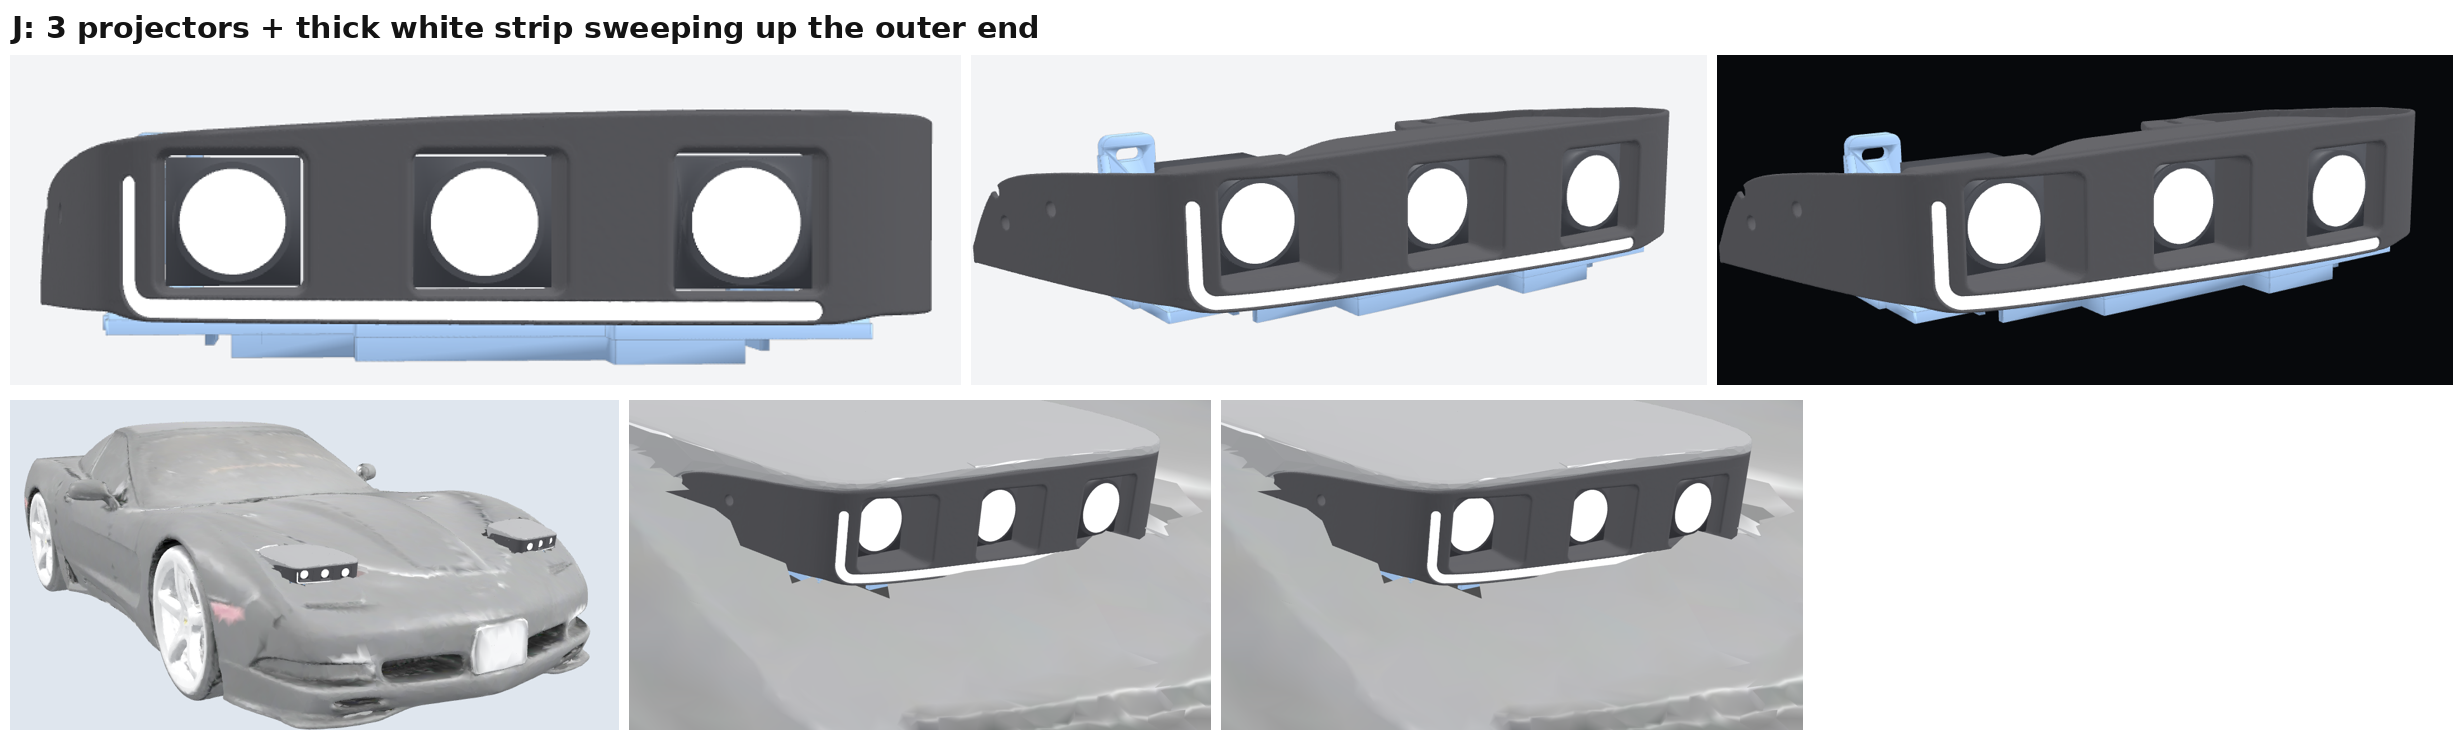
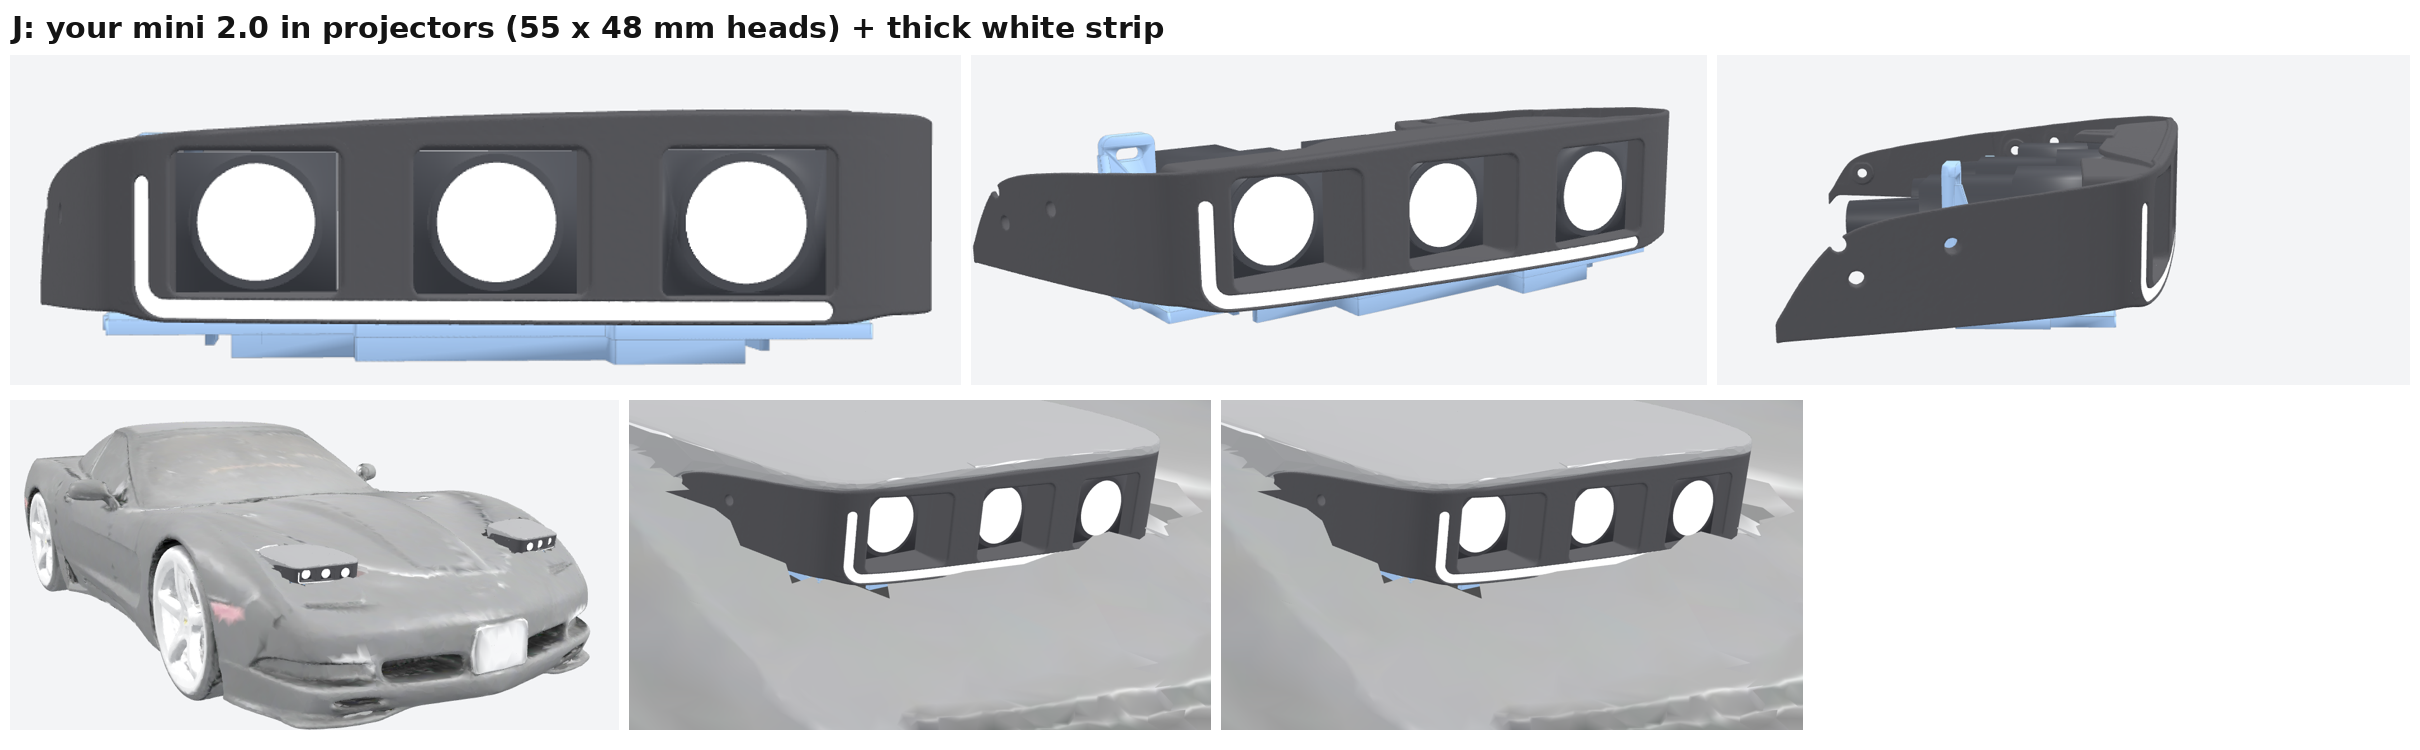
P3J/P3W sized to the owner's projectors (mini 2.0 in bi-LED, 55 x 48 mm heads)
From the listing's size drawing: head 55 wide x 48 tall x 50 deep, body 41 wide x 44 deep,
threaded stem 38 (131 mm overall). The heads sit at z 9.5 to 57.5, between the thick strip and
the rail (0.5 mm clearance, near-square tunnels); the fender-side head is 8 mm in from the
pod's place so its body clears the arm's mounting tab, and the middle one halfway for even
gaps. No overlap with the bezel or the bracket. Renders updated.

Claude-Session: https://claude.ai/code/session_01M5RjfuvJShbeiYoa7cgYgA

diff --git a/c5-shroud/bezel_styles.py b/c5-shroud/bezel_styles.py
@@ -61,8 +61,12 @@ BLADE = Spec(slot=4.2, inner=4.2, wall=1.0, skin=0.0, depth=3.8, insert=1.5, fro
 BLADE_FLUSH = 0.3    # the diffuser's face sits this far behind the bezel's
 WIRE_R = 1.3         # wire hole from the blade's channel out underneath
 LOW_Z = 3.6          # the lower lights' centre line
-PROJ_W, PROJ_H = 46.0, 44.0   # P3 looks: a 1.5 in projector's square housing, face on (to confirm with the real ones)
-PROJ_LIFT = 3.0      # P3: the projectors sit this much higher than the pods did, to make room for a thick strip
+PROJ_W, PROJ_H = 55.0, 48.0   # P3: the owner's mini 2.0 in bi-LED projector, head face on (eBay listing's size drawing)
+PROJ_CLEAR = 0.5     # round the head, in its tunnel (the head only just fits under the rail at the fender end)
+PROJ_X = (-84.5, -4.0, 76.5)  # head centres: the fender one 8 mm in from the pod's place, so its body clears the
+                              # arm's mounting tab; the middle one halfway, for even gaps
+PROJ_LIFT = 2.9      # P3: the heads sit this much higher than the pods did: z 9.5 to 57.5, between the thick strip
+                     # (its walls end at 8.95) and the rail (its underside is at 59.0 over the fender head)
 # P3's thick light strip: a silicone switchback (white DRL / amber signal) strip, about 6.5 mm wide
 # and 6 mm thick, pressed into the channel from the front, flush; it is its own diffuser
 THICK = Spec(slot=6.5, inner=6.5, wall=1.0, skin=0.0, depth=7.0, insert=6.0, front=True)
@@ -308,7 +312,7 @@ class Style:
             # three small projectors at the pods' places; one light strip under them that sweeps up
             # past the fender-side one: straight (J) or dipping under each and peaking between (W)
             pxs = [t[0] for t in fg["tunnels"]]
-            half = PROJ_W / 2 + 2.0
+            half = PROJ_W / 2 + 1.0
             if name == "P3J":
                 pts = rounded_l((ax(pxs[0] - half + 4.0), THICK_Z), (ax(pxs[-1] + half + 10.0), THICK_Z),
                                 (ax(pxs[-1] + half + 10.0), 46.0), 9.0)[::-1]
@@ -317,8 +321,8 @@ class Style:
                 zs = [THICK_Z + 6.0, THICK_Z]
                 for xa, xb in zip(pxs, pxs[1:]):         # flat under each window, peaking in the gaps
                     xm = (xa + xb) / 2
-                    xs += [xa + half + 5.0, xm - 2.5, xm, xm + 2.5, xb - half - 5.0]
-                    zs += [THICK_Z, 26.0, 28.0, 26.0, THICK_Z]
+                    xs += [xa + half + 3.5, xm - 2.0, xm, xm + 2.0, xb - half - 3.5]
+                    zs += [THICK_Z, 22.0, 24.0, 22.0, THICK_Z]
                 xs += [pxs[-1] + half + 4.0, pxs[-1] + half + 10.0, pxs[-1] + half + 10.0]
                 zs += [THICK_Z, THICK_Z + 8.0, 46.0]
                 pts = np.c_[[ax(x) for x in xs], zs]

diff --git a/c5-shroud/bezel_sdf.py b/c5-shroud/bezel_sdf.py
@@ -274,26 +274,28 @@ def feature_geometry(sw):
     """Windows, tongue and screw holes: the same geometry as bezel_cad.features, and the door."""
     zc = g.pod_zc(P)
     ww, wh = P.pod_face_w + 2 * P.window_clear_x, P.pod_face_h + 2 * P.window_clear_y
+    poses = [(px, py) for (px, py, _) in g.pod_poses(P)]
     if STYLE.startswith("P3"):          # three small projectors instead of the pods (bezel_styles.PROJ)
-        ww, wh = bs.PROJ_W + 4.0, bs.PROJ_H + 4.0
+        ww, wh = bs.PROJ_W + 2 * bs.PROJ_CLEAR, bs.PROJ_H + 2 * bs.PROJ_CLEAR
         zc = zc + bs.PROJ_LIFT
+        poses = [(x, py) for x, (_, py) in zip(bs.PROJ_X, poses)]
     floor_top = g.shell_levels(P)[2] - 0.15
     z_bot = floor_top - T_WALL + RL_MAX + 1.0      # the sill sits 1 mm above the rolled lip's top, so the
                                                    # lip under it is solid (not a thin upturned edge)
     if STYLE.startswith("P3"):          # the sill just under the projector, with the light strip below it
-        z_bot = zc - bs.PROJ_H / 2 - 2.0
+        z_bot = zc - bs.PROJ_H / 2 - bs.PROJ_CLEAR
     z_topw = zc + wh / 2
-    wins = [(px, py, (z_bot + z_topw) / 2, ww / 2, (z_topw - z_bot) / 2) for (px, py, _) in g.pod_poses(P)]
+    wins = [(px, py, (z_bot + z_topw) / 2, ww / 2, (z_topw - z_bot) / 2) for (px, py) in poses]
     # the tunnels: behind each pod's face they hug the pod's body (TUNNEL_CLEAR all round, small
     # corners); forward of it they curve out to the opening at the front, which is a little wider
     # than the window and taller where the rail leaves room above it
     tunnels = []
-    for (px, py, _) in g.pod_poses(P):
+    for (px, py) in poses:
         zb0, zb1 = P.pod_lift - TUNNEL_CLEAR, g.pod_top(P) + TUNNEL_CLEAR
         back = (P.pod_body_w / 2 + TUNNEL_CLEAR, (zb1 - zb0) / 2, (zb0 + zb1) / 2, 3.0)
         if STYLE.startswith("P3"):
-            zb0, zb1 = zc - bs.PROJ_H / 2 - TUNNEL_CLEAR, zc + bs.PROJ_H / 2 + TUNNEL_CLEAR
-            back = (bs.PROJ_W / 2 + TUNNEL_CLEAR, (zb1 - zb0) / 2, (zb0 + zb1) / 2, 3.0)
+            zb0, zb1 = zc - bs.PROJ_H / 2 - bs.PROJ_CLEAR, zc + bs.PROJ_H / 2 + bs.PROJ_CLEAR
+            back = (bs.PROJ_W / 2 + bs.PROJ_CLEAR, (zb1 - zb0) / 2, (zb0 + zb1) / 2, 1.0)   # near-square heads
         on = np.abs(sw.path[:, 0] - px) < ww / 2 + 4
         rail_under = float(np.min(sw.T[on & (sw.path[:, 1] > -60)])) - T_WALL
         flare = 0.0 if STYLE in ("B", "C", "BC", "C7") or STYLE.startswith("P3") else FLARE_TOP     # even windows for the frames and the tray
